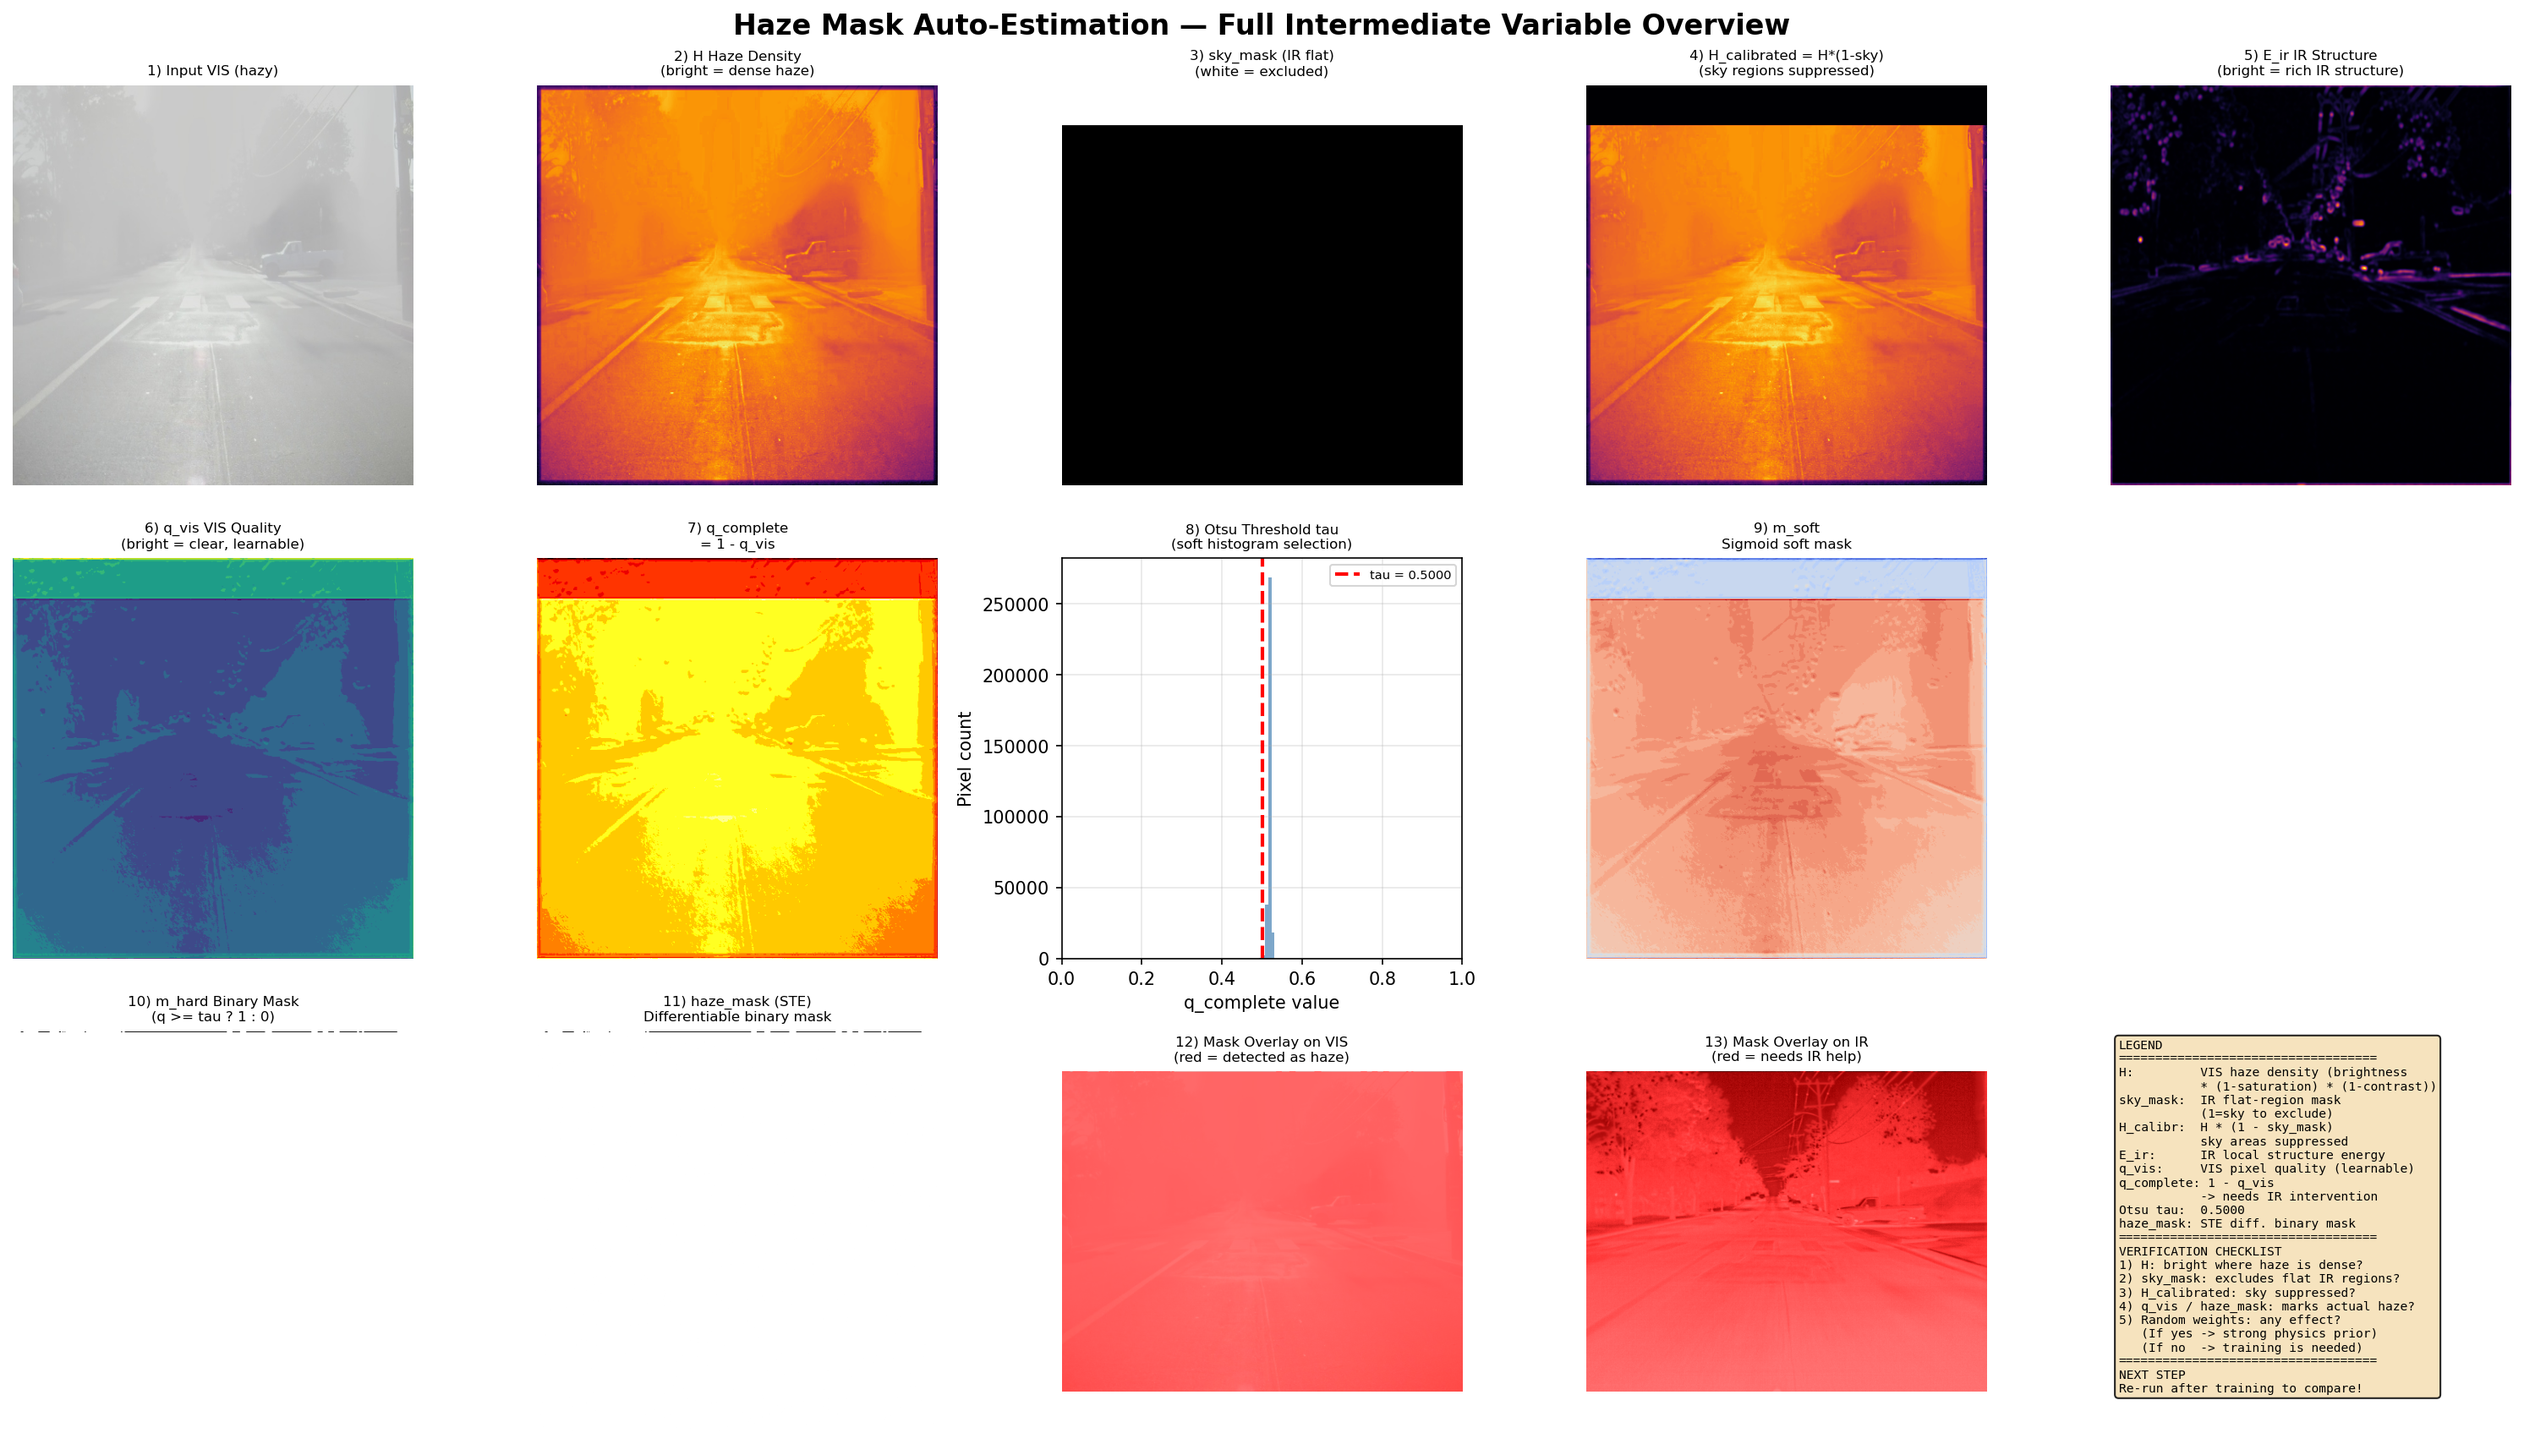
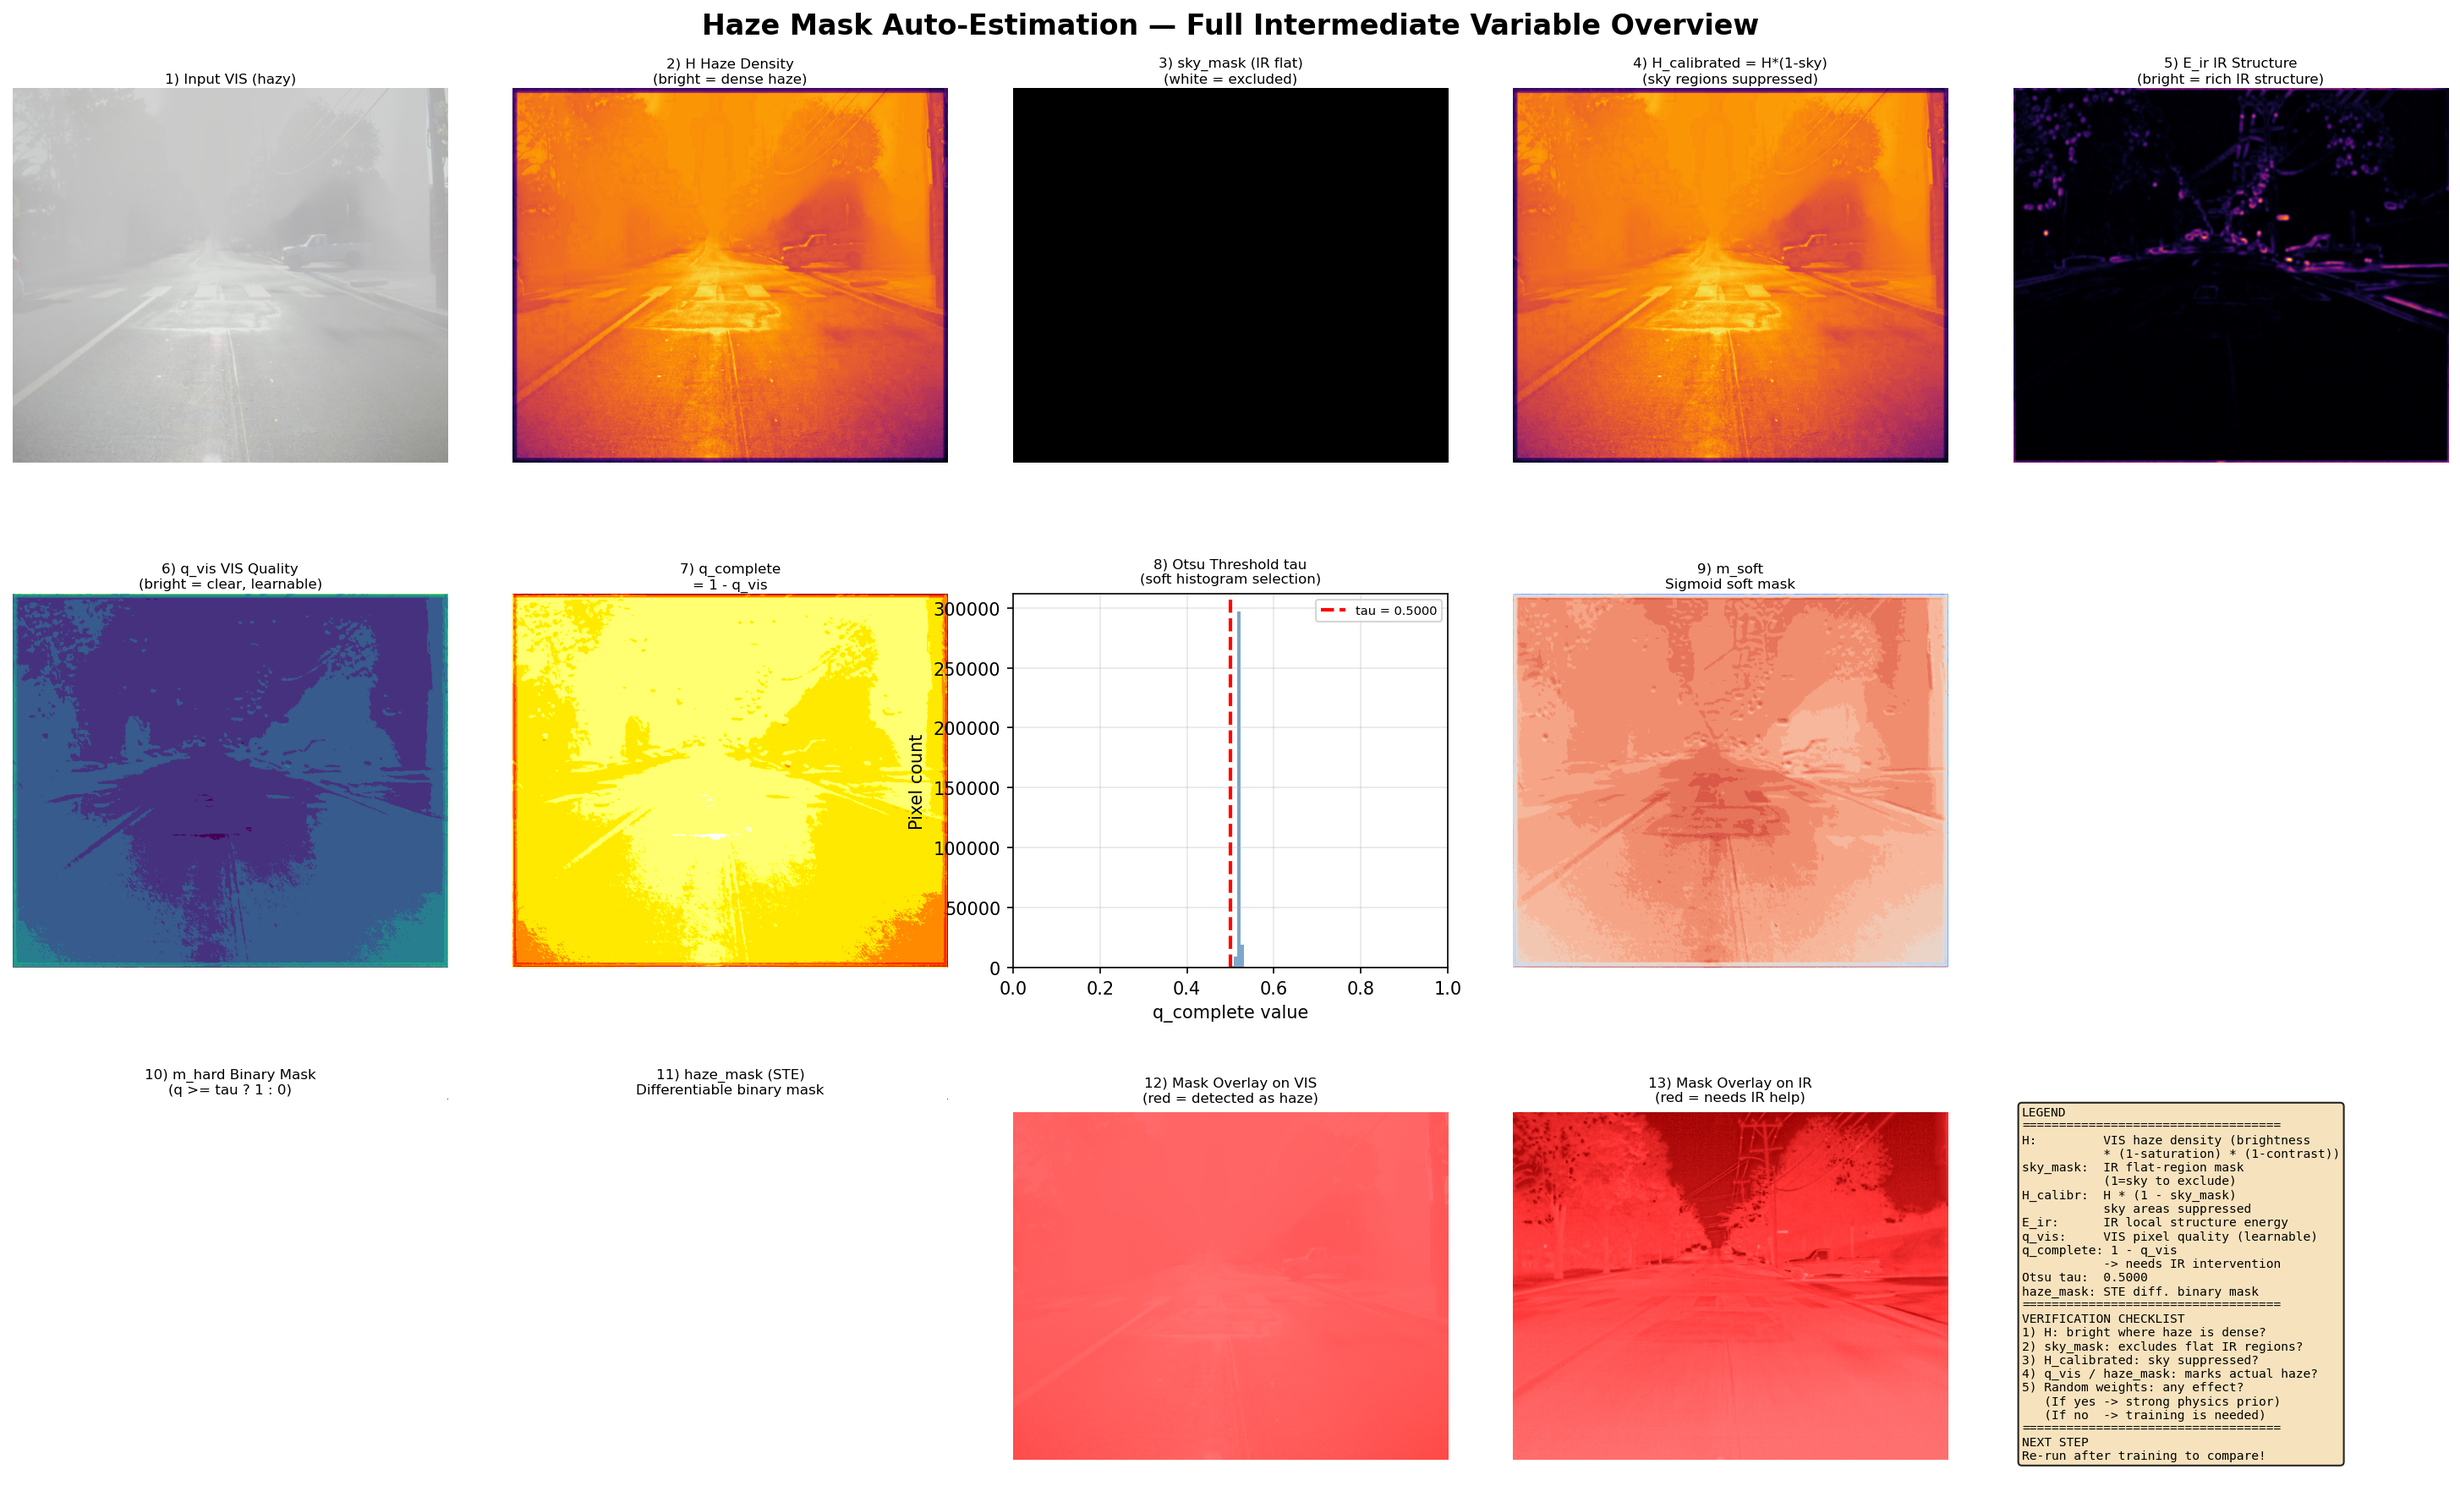
refresh

diff --git a/verify_haze_mask.py b/verify_haze_mask.py
@@ -101,9 +101,7 @@ def compute_ir_structure(x_ir):
 
 def compute_sky_mask(x_ir):
     B, _, H_s, W_s = x_ir.shape
-    y_coords = torch.linspace(0.0, 1.0, H_s, device=x_ir.device, dtype=x_ir.dtype)
-    sky_mask = (y_coords < 0.10).view(1, 1, H_s, 1).float().expand(B, 1, H_s, W_s).contiguous()
-    return sky_mask
+    return torch.zeros(B, 1, H_s, W_s, device=x_ir.device, dtype=x_ir.dtype)
 
 
 def differentiable_otsu(q_complete, num_bins=256, delta=0.02, temperature=0.01):
@@ -235,6 +233,7 @@ def build_figure(vis_img, ir_img, intermediates):
     fig, axes = plt.subplots(3, 5, figsize=(20, 12))
     fig.suptitle('Haze Mask Auto-Estimation — Full Intermediate Variable Overview',
                  fontsize=16, fontweight='bold')
+    fig.subplots_adjust(left=0.02, right=0.98, top=0.93, bottom=0.02, hspace=0.35, wspace=0.15)
 
     d = intermediates
 
@@ -264,7 +263,6 @@ def build_figure(vis_img, ir_img, intermediates):
     _overlay(axes[2, 3], ir_img, d['haze_mask'], '13) Mask Overlay on IR\n(red = needs IR help)')
     _legend(axes[2, 4], d['tau'])
 
-    plt.tight_layout()
     return fig
 
 
@@ -275,8 +273,8 @@ def _imshow(ax, img, title, cmap=None):
     if img.ndim == 3 and img.shape[2] == 3:
         ax.imshow(img, aspect='auto')
     else:
-        ax.imshow(img, cmap=cmap or 'viridis', aspect='auto')
-    ax.set_title(title, fontsize=8)
+        im = ax.imshow(img, cmap=cmap or 'viridis', aspect='auto')
+    ax.set_title(title, fontsize=8, pad=3)
     ax.axis('off')
 
 
@@ -502,9 +500,9 @@ def main():
                 'sky_mask (IR flat regions)\n(white = excluded)', cmap='gray')
         _imshow(axes1[3], H_calibrated,
                 'H_calibrated = H*(1-sky)\n(sky regions suppressed)', cmap='inferno')
-        fig1.suptitle('Level 1: Haze-Density Prior + Sky Exclusion (No Training)',
+        fig1.suptitle('Level 1: Cross-Modal Haze Prior + Sky Exclusion (No Training)',
                       fontsize=14, fontweight='bold')
-        plt.tight_layout()
+        fig1.subplots_adjust(left=0.02, right=0.98, top=0.85, bottom=0.05, wspace=0.1)
         level1_path = os.path.join(args.output, 'level1_haze_density_prior.png')
         fig1.savefig(level1_path, dpi=150, bbox_inches='tight')
         plt.close(fig1)

diff --git a/model/Teacher.py b/model/Teacher.py
@@ -106,9 +106,7 @@ def compute_ir_structure(x_ir):
 
 def compute_sky_mask(x_ir):
     B, _, H_s, W_s = x_ir.shape
-    y_coords = torch.linspace(0.0, 1.0, H_s, device=x_ir.device, dtype=x_ir.dtype)
-    sky_mask = (y_coords < 0.10).view(1, 1, H_s, 1).float().expand(B, 1, H_s, W_s).contiguous()
-    return sky_mask
+    return torch.zeros(B, 1, H_s, W_s, device=x_ir.device, dtype=x_ir.dtype)
 
 
 def differentiable_otsu(q_complete, num_bins=256, delta=0.02, temperature=0.01):
